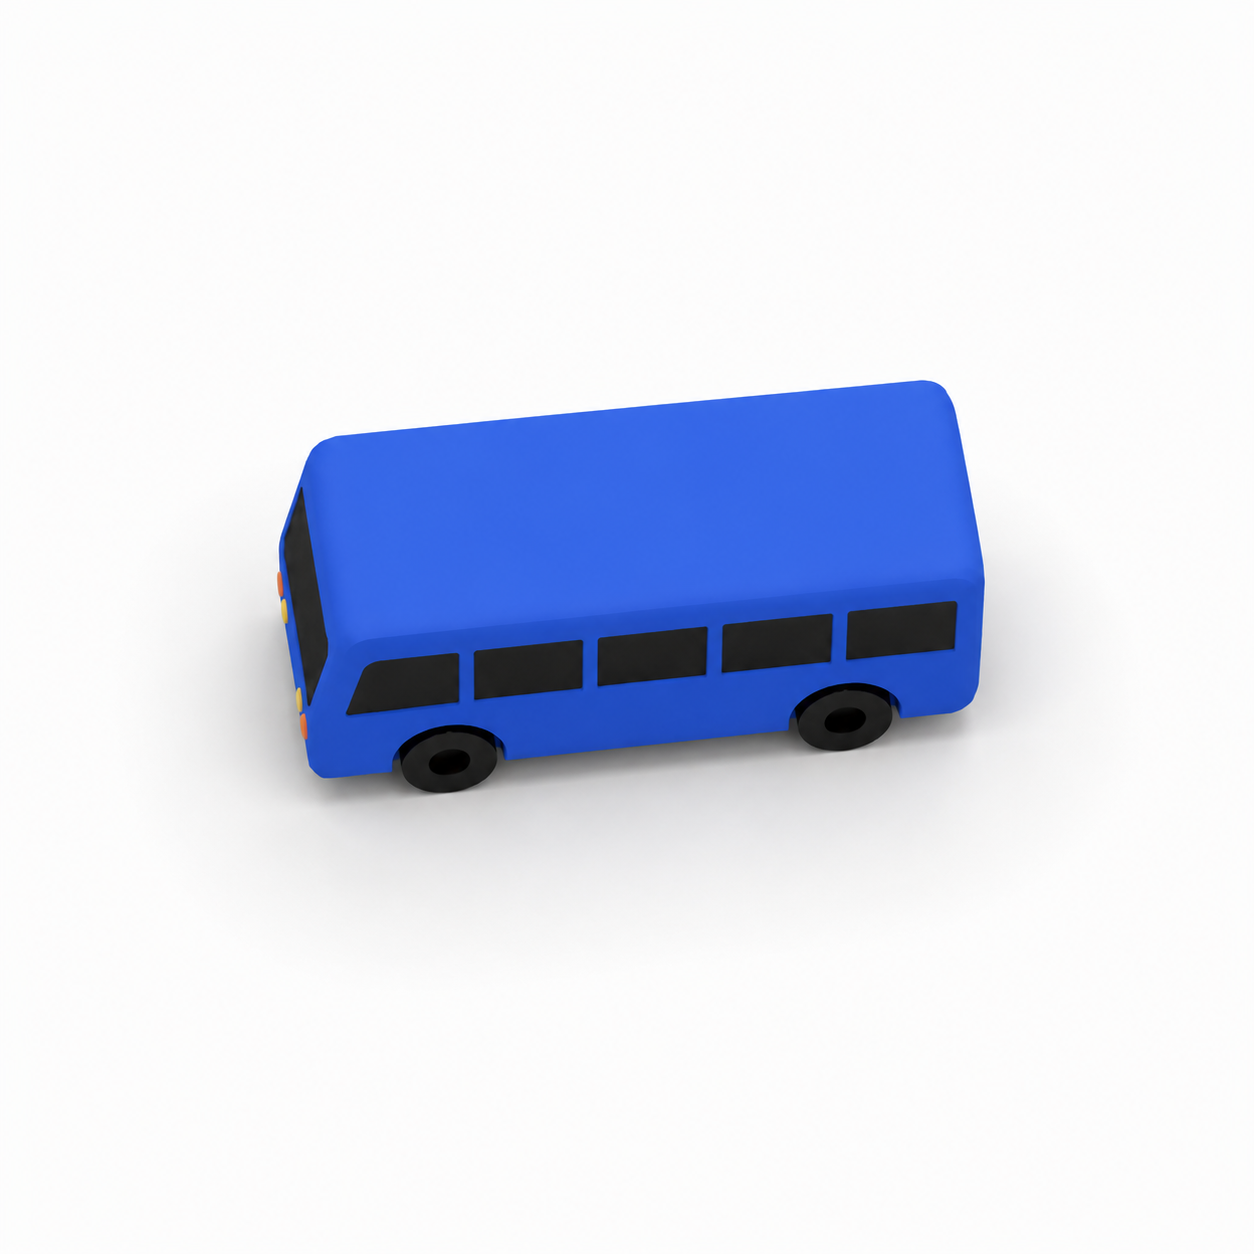
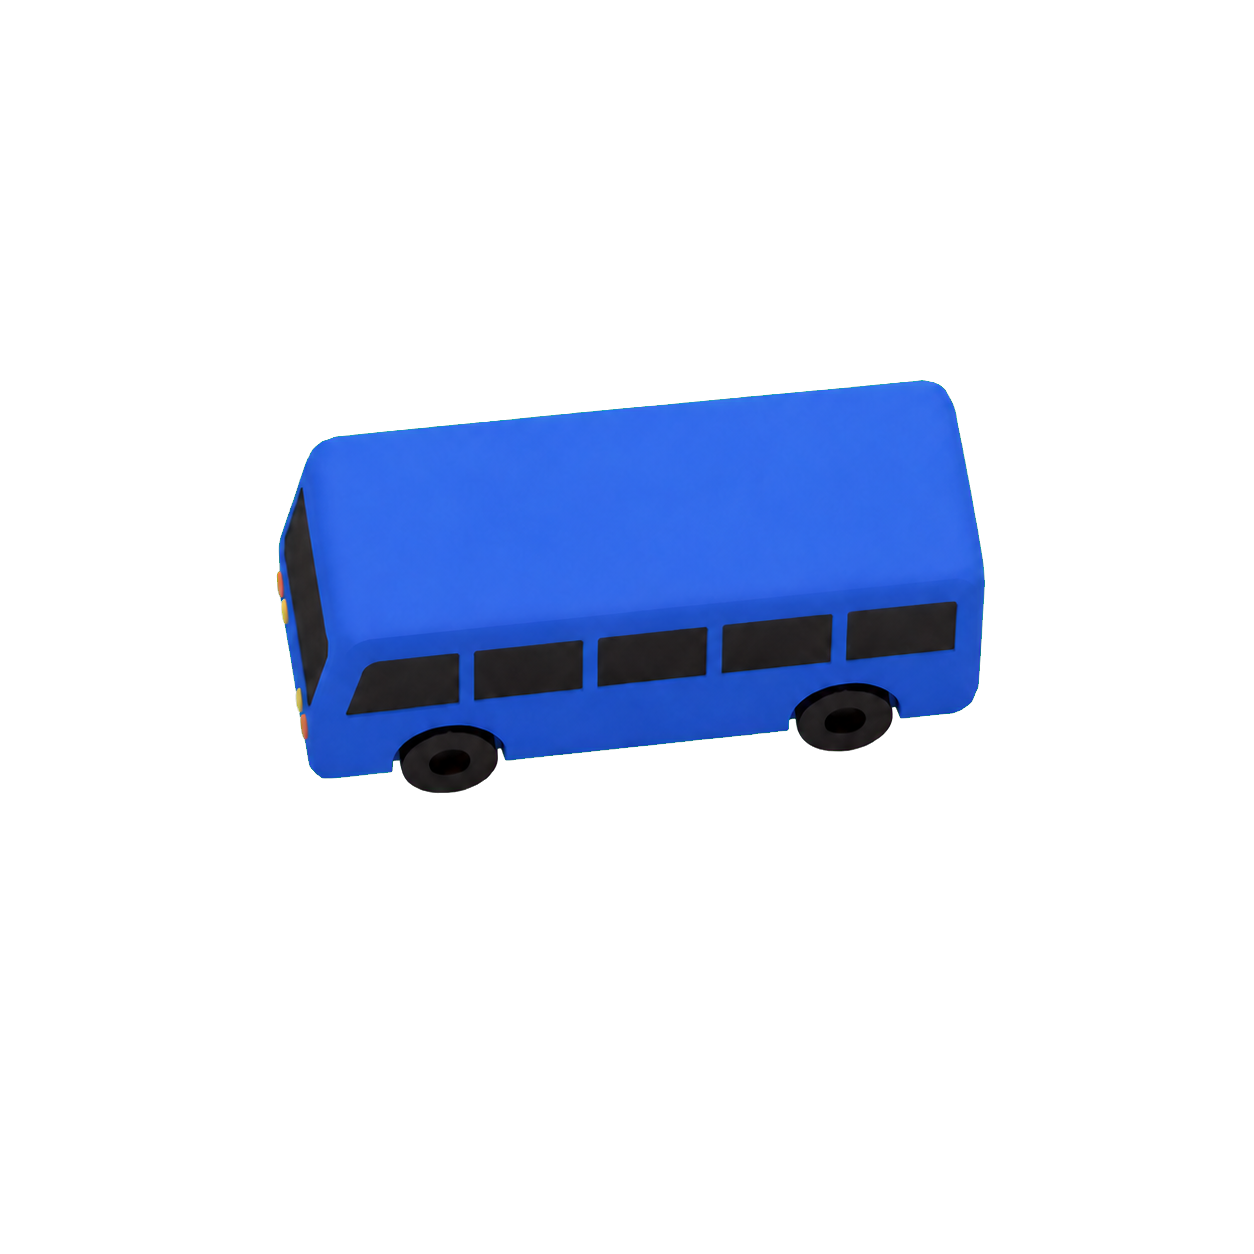
fix(web): remove live bus marker backgrounds

Changed region(s): [[0.1555, 0.4665, 0.8397, 0.6842]]

diff --git a/apps/web/src/styles.css b/apps/web/src/styles.css
@@ -1364,7 +1364,6 @@ summary:focus-visible,
   width: 100%;
   height: 100%;
   filter: drop-shadow(0 4px 5px rgb(11 53 107 / 28%));
-  mix-blend-mode: multiply;
 }
 
 .map-marker-vehicle-number {
@@ -1384,10 +1383,6 @@ summary:focus-visible,
     0 0 2px rgb(4 25 61 / 90%);
   white-space: nowrap;
   transform-origin: center;
-}
-
-.preview-vehicle-image {
-  mix-blend-mode: multiply;
 }
 
 .preview-vehicle-number {
